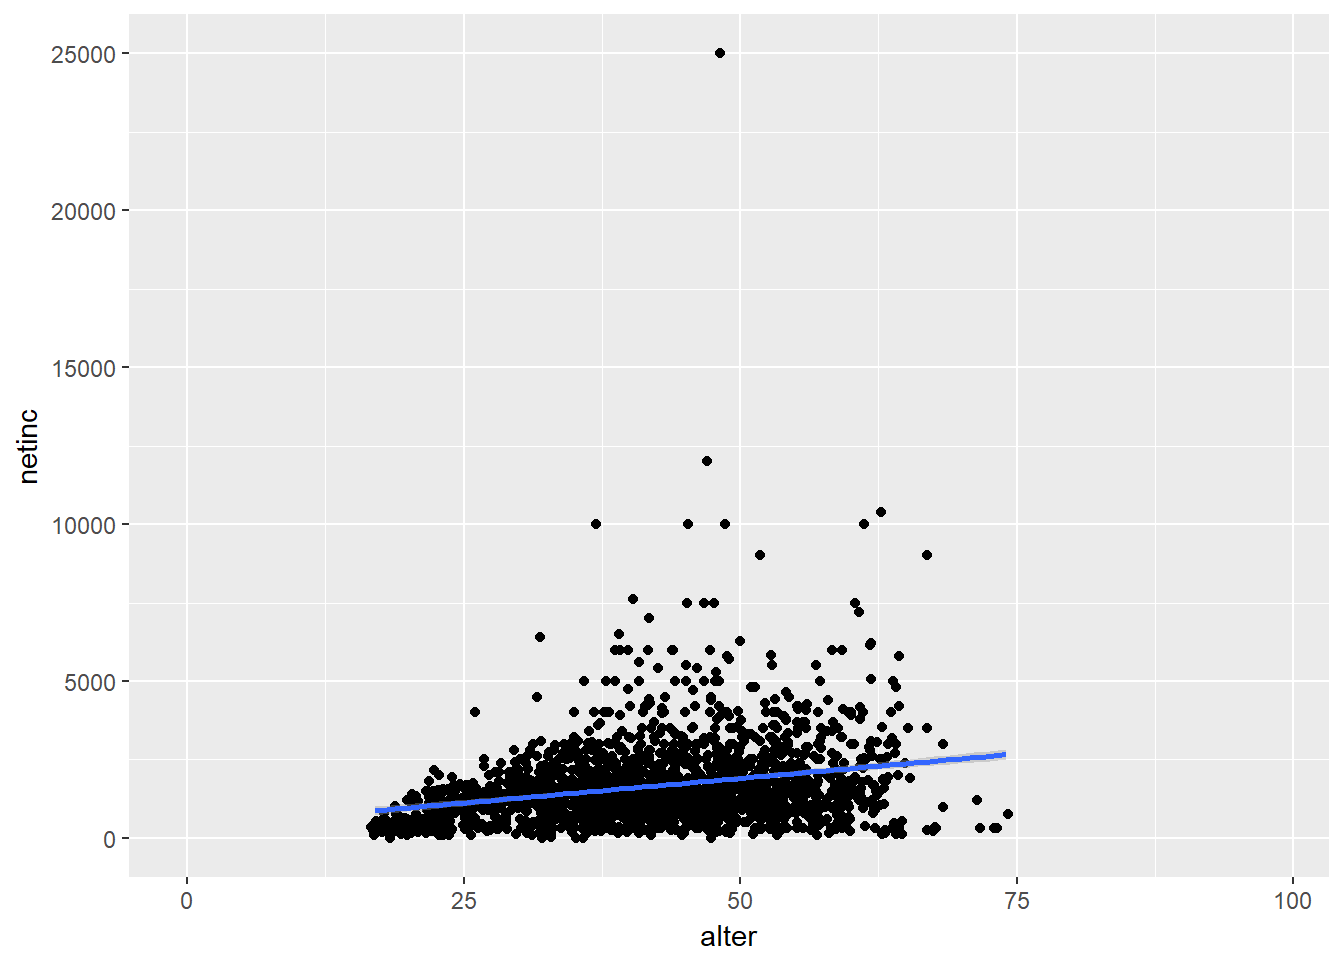
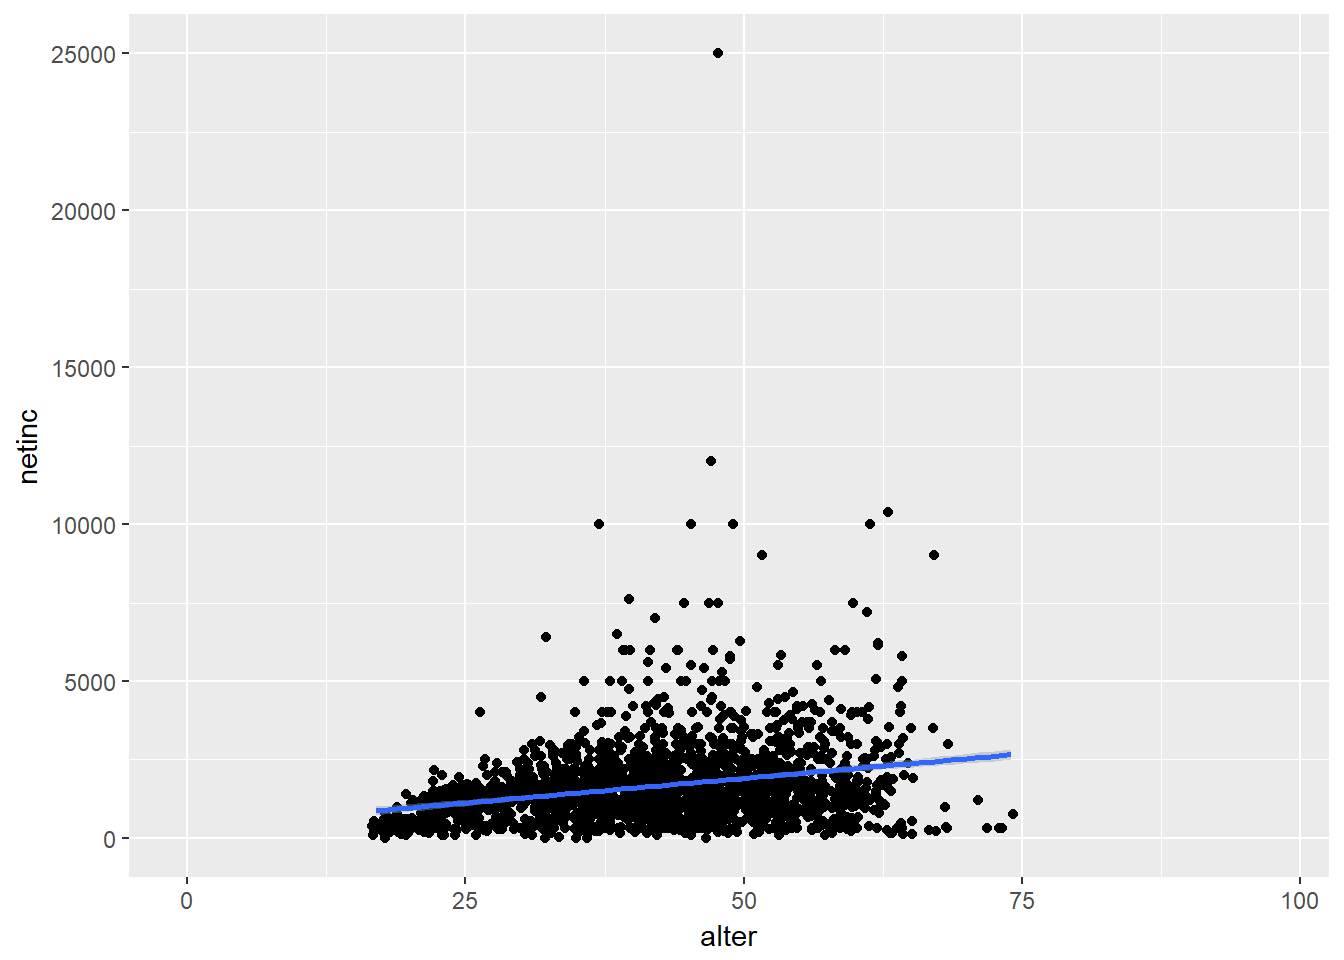
Last Typo Correction before Publish

diff --git a/docs/datamanagement.html b/docs/datamanagement.html
@@ -318,12 +318,12 @@ div.tocify {
 <pre class="r"><code># Laden des Datensatzes
 library(readstata13)
 library(tidyverse)</code></pre>
-<pre><code>## -- Attaching packages ------------------------------------------------------------ tidyverse 1.2.1 --</code></pre>
+<pre><code>## -- Attaching packages ------------------------------------------------------------------ tidyverse 1.2.1 --</code></pre>
 <pre><code>## v ggplot2 2.2.1     v purrr   0.2.4
 ## v tibble  1.4.2     v dplyr   0.7.4
-## v tidyr   0.8.0     v stringr 1.3.0
+## v tidyr   0.8.0     v stringr 1.2.0
 ## v readr   1.1.1     v forcats 0.3.0</code></pre>
-<pre><code>## -- Conflicts --------------------------------------------------------------- tidyverse_conflicts() --
+<pre><code>## -- Conflicts --------------------------------------------------------------------- tidyverse_conflicts() --
 ## x dplyr::filter() masks stats::filter()
 ## x dplyr::lag()    masks stats::lag()</code></pre>
 <pre class="r"><code>library(magrittr)</code></pre>
@@ -383,12 +383,12 @@ econ$netinc = recode(econ$tp7602,&quot;-3=NA;-2=NA;-1=NA&quot;)
 econ_data &lt;- econ[,c(&quot;netinc&quot;,&quot;alter&quot;,&quot;sex&quot;,&quot;contract&quot;,&quot;actual&quot;,&quot;trust&quot;,&quot;rely&quot;)]
 head(econ_data)</code></pre>
 <pre><code>##       netinc alter      sex contract actual trust rely
-## 9078      NA    10 weiblich       NA     NA    NA   NA
-## 3531     600    35 weiblich     38.5     70     2    2
-## 13487   2950    39 männlich       NA     70     3    1
-## 5474     580    41 weiblich     25.0     25     2    3
-## 1701      NA    88 weiblich       NA     NA     2    3
-## 422     1200    37 weiblich     31.5     35     3    2</code></pre>
+## 12787   1300    23 männlich     37.5   37.5     2    2
+## 5026    1405    26 männlich     38.5   50.0     2    3
+## 12446   1609    36 weiblich     40.0   42.0     3    2
+## 9742     660    44 männlich     40.0   40.0     3    2
+## 5839      NA    60 weiblich     38.5   38.5     3    2
+## 13220   4500    45 männlich     40.0   60.0     2    3</code></pre>
 <pre class="r"><code># Delete NAs
 econ_data &lt;- na.omit(econ_data)
 
@@ -397,8 +397,8 @@ econ_data &lt;- na.omit(econ_data)
 hist(econ$netinc)</code></pre>
 <p><img src="datamanagement_files/figure-html/unnamed-chunk-2-1.png" width="672" /></p>
 <pre class="r"><code>quantile(econ_data$netinc)</code></pre>
-<pre><code>##    0%   25%   50%   75%  100% 
-##     0   800  1350  1900 10388</code></pre>
+<pre><code>##      0%     25%     50%     75%    100% 
+##    0.00  800.00 1342.00 1896.25 7500.00</code></pre>
 <pre class="r"><code>econ_data$inc_kat &lt;- NA
 econ_data$inc_kat [econ_data$netinc &lt; quantile(econ_data$netinc)[2]] &lt;- &quot;Q1&quot;
 econ_data$inc_kat [econ_data$netinc &gt;= quantile(econ_data$netinc)[2] &amp; econ_data$netinc &lt; quantile(econ_data$netinc)[3]] &lt;- &quot;Q2&quot;
@@ -408,7 +408,7 @@ econ_data$inc_kat [econ_data$netinc &gt;= quantile(econ_data$netinc)[4] ] &lt;- 
 table(econ_data$inc_kat)</code></pre>
 <pre><code>## 
 ##  Q1  Q2  Q3  Q4 
-## 419 429 420 439</code></pre>
+## 421 453 437 437</code></pre>
 </div>
 <div id="advanced-dm-the-tidyverse" class="section level1">
 <h1><span class="header-section-number">3</span> Advanced DM: The tidyverse</h1>
@@ -422,12 +422,12 @@ table(econ_data$inc_kat)</code></pre>
 
 head(econ_data)</code></pre>
 <pre><code>##   netinc alter      sex contract actual trust rely inc_kat alter_squared
-## 1    600    35 weiblich     38.5     70     2    2      Q1          1225
-## 2    580    41 weiblich     25.0     25     2    3      Q1          1681
-## 3   1200    37 weiblich     31.5     35     3    2      Q2          1369
-## 4   1950    60 männlich     37.0     55     2    3      Q4          3600
-## 5   1200    53 weiblich     36.0     36     2    3      Q2          2809
-## 6   1700    62 männlich     40.0     44     2    3      Q3          3844</code></pre>
+## 1   1300    23 männlich     37.5   37.5     2    2      Q2           529
+## 2   1405    26 männlich     38.5   50.0     2    3      Q3           676
+## 3   1609    36 weiblich     40.0   42.0     3    2      Q3          1296
+## 4    660    44 männlich     40.0   40.0     3    2      Q1          1936
+## 5   4500    45 männlich     40.0   60.0     2    3      Q4          2025
+## 6    800    29 männlich     38.0   38.0     4    1      Q2           841</code></pre>
 </div>
 <div id="summarise" class="section level2">
 <h2><span class="header-section-number">3.2</span> Summarise</h2>
@@ -435,8 +435,8 @@ head(econ_data)</code></pre>
 <pre class="r"><code>econ_data %&gt;% 
   summarise(mean = mean(alter,na.rm = T),
             sd = sd(alter,na.rm = T))</code></pre>
-<pre><code>##      mean       sd
-## 1 40.3058 11.76346</code></pre>
+<pre><code>##       mean       sd
+## 1 40.81636 11.63871</code></pre>
 </div>
 <div id="group_by" class="section level2">
 <h2><span class="header-section-number">3.3</span> group_by</h2>
@@ -448,7 +448,7 @@ head(econ_data)</code></pre>
 <pre><code>## # A tibble: 1 x 2
 ##    mean    sd
 ##   &lt;dbl&gt; &lt;dbl&gt;
-## 1  40.3  11.8</code></pre>
+## 1  40.8  11.6</code></pre>
 </div>
 </div>
 

diff --git a/docs/objectsndata.html b/docs/objectsndata.html
@@ -317,8 +317,8 @@ div.tocify {
 <div id="file-names" class="section level1">
 <h1><span class="header-section-number">1</span> File names</h1>
 <p>Be sure to save all your files (especially the data input) in the folders below where you have started your project. To let R open files you have to use the forward slash (not the backward one). Example:</p>
-<pre class="r"><code>a=read.csv2(&quot;data/econometrics.csv&quot;) # reads a csv file saved in the data folder. The file is named SOEP.csv
-# everything behind a # (Hashtag) is not run by R.
+<pre class="r"><code>a=read.csv2(&quot;data/econometrics.csv&quot;) # reads a csv file saved in the data folder. The file is named econometrics.csv
+# As explained bevore everything behind a # (Hashtag) is not run by R.
 # #&#39;s are very useful for commenting and making sense out of your code. 
 a=read.csv2(&quot;data/econometrics.csv&quot;)</code></pre>
 </div>

diff --git a/docs/linreg.html b/docs/linreg.html
@@ -458,8 +458,8 @@ summary(model3)</code></pre>
 <pre class="r"><code>library(stargazer)</code></pre>
 <pre><code>## 
 ## Please cite as:</code></pre>
-<pre><code>##  Hlavac, Marek (2015). stargazer: Well-Formatted Regression and Summary Statistics Tables.</code></pre>
-<pre><code>##  R package version 5.2. http://CRAN.R-project.org/package=stargazer</code></pre>
+<pre><code>##  Hlavac, Marek (2018). stargazer: Well-Formatted Regression and Summary Statistics Tables.</code></pre>
+<pre><code>##  R package version 5.2.1. https://CRAN.R-project.org/package=stargazer</code></pre>
 <pre class="r"><code># Nice Apa-Ready Output: 
 
 stargazer(model1,model2,model3,  #regression models 
